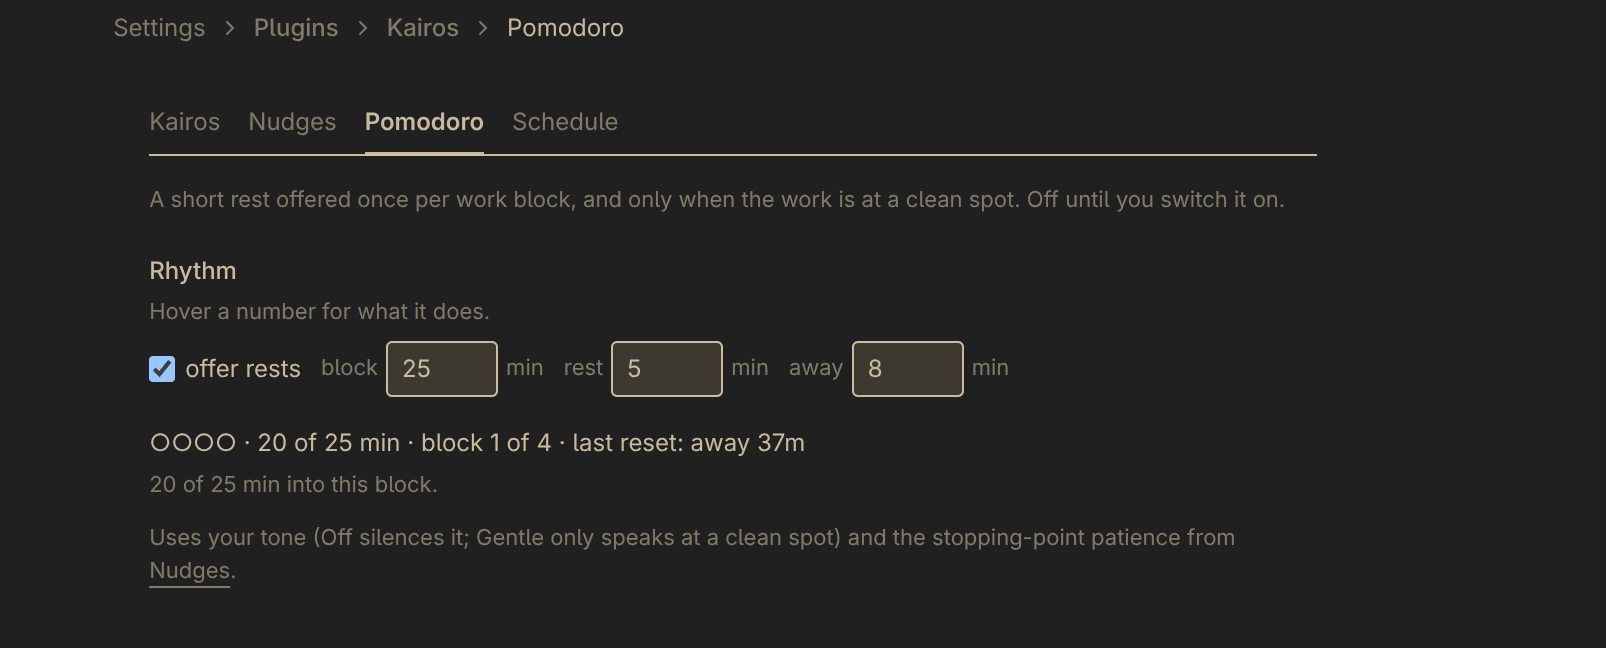
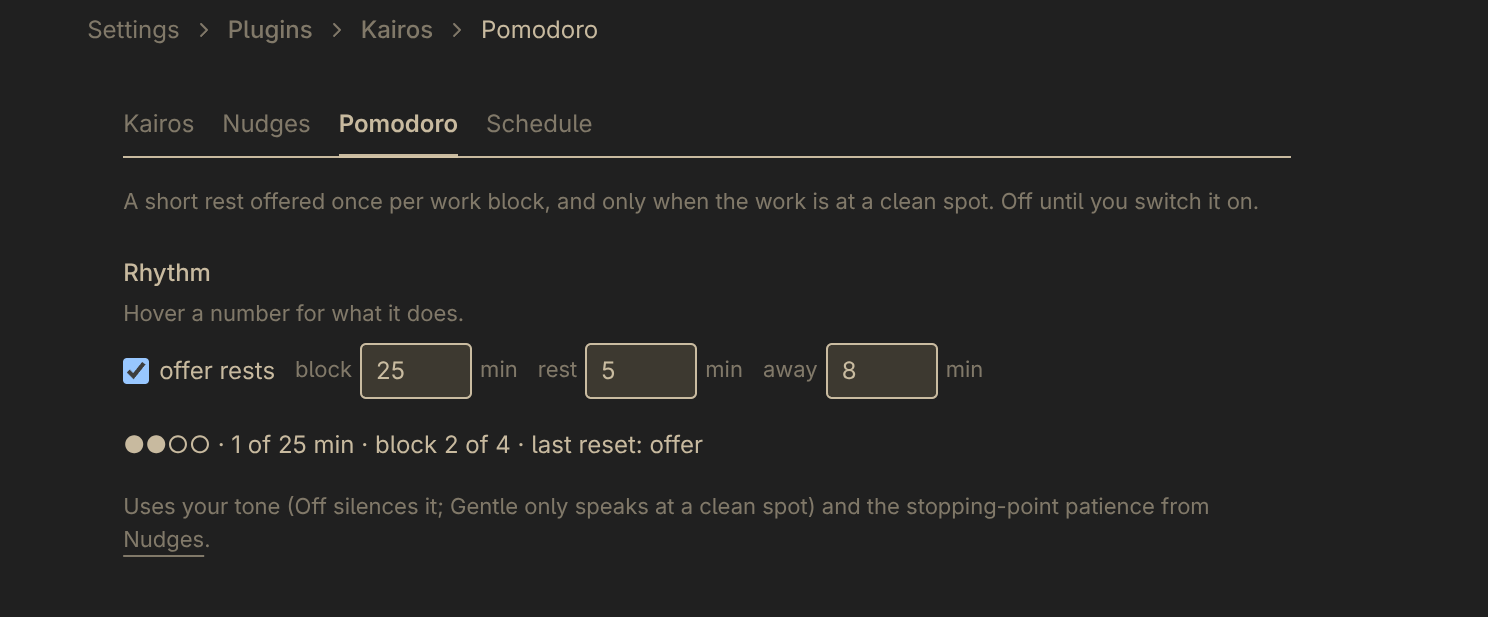
README: the pomodoro offer as it arrives in a chat; retake the Pomodoro settings shot

diff --git a/README.md b/README.md
@@ -134,6 +134,10 @@ The agent delivers that and carries on with what you asked. You are the one
 who may step away; the work keeps going. That is the part a kitchen timer
 can't do: the break is when something still gets done.
 
+As it arrives in a chat:
+
+![A pomodoro offer delivered in a Hermes chat](docs/screenshots/pomodoro-nudge.png)
+
 It is off until you switch it on in Settings → Plugins → Kairos → Pomodoro.
 
 **It can't see focus, only the work.** "At a boundary" means: the recent tool
